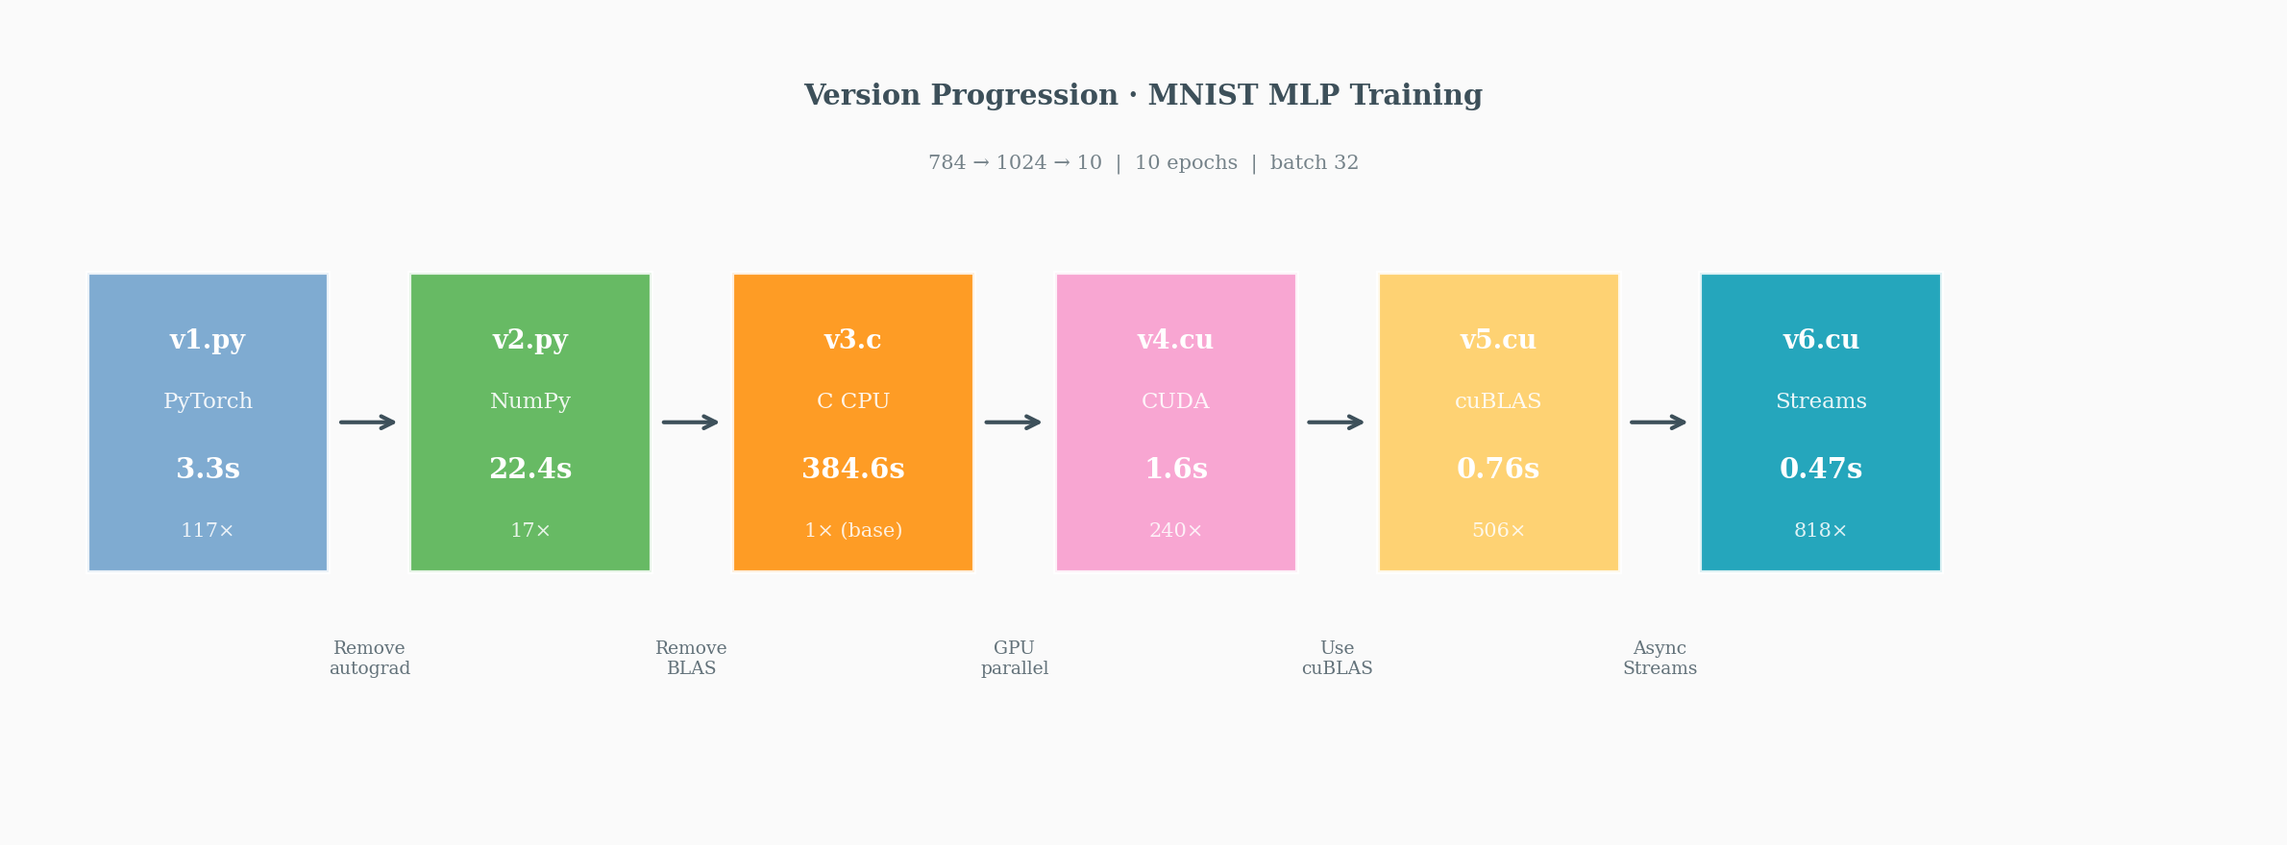
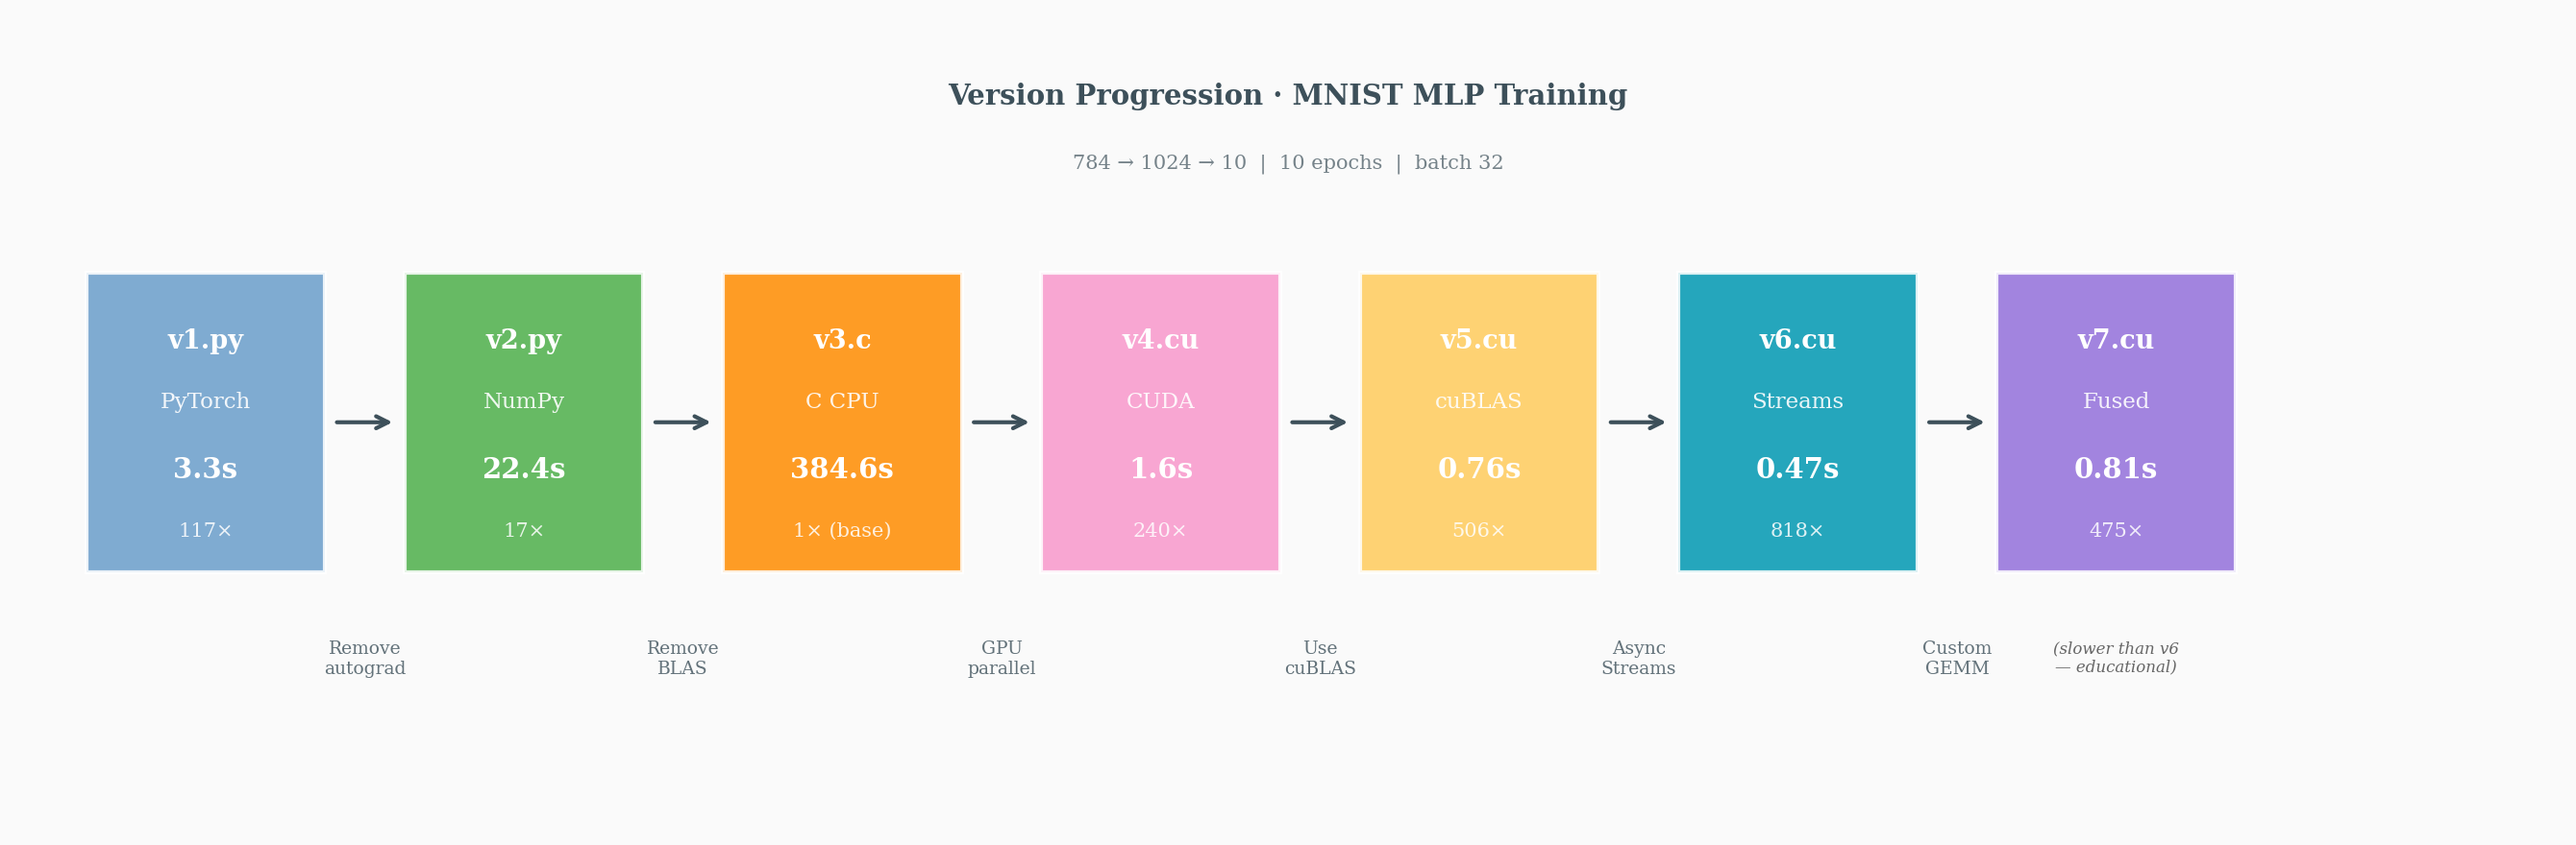
docs: update performance of v7

diff --git a/MNIST-in-CUDA/plot_timing.py b/MNIST-in-CUDA/plot_timing.py
@@ -36,19 +36,19 @@ plt.rcParams.update({
     'axes.spines.right': False,
 })
 
-# Data (v5/v6 have different timing: async operations)
-versions = ['v1 PyTorch', 'v2 NumPy', 'v3 C', 'v4 CUDA', 'v5 cuBLAS', 'v6 Streams']
-totals = [3.3, 22.4, 384.6, 1.6, 0.76, 0.47]
+# Data (v5/v6/v7 have different timing: async operations)
+versions = ['v1 PyTorch', 'v2 NumPy', 'v3 C', 'v4 CUDA', 'v5 cuBLAS', 'v6 Streams', 'v7 Fused']
+totals = [3.3, 22.4, 384.6, 1.6, 0.76, 0.47, 0.81]
 
 # Calculate "Other" to make each version sum to 100%
 # Other includes: Python interpreter overhead, CUDA init, epoch loops, print, etc.
 raw_data = {
-    'Data Loading': [0.065, 0.016, 0.000, 0.135, 0.129, 0.013],
-    'Forward': [0.666, 5.655, 272.2, 0.731, 0.00, 0.00],
-    'Loss': [0.327, 0.597, 0.002, 0.002, 0.00, 0.00],
-    'Backward': [1.449, 10.219, 106.4, 0.436, 0.00, 0.00],
-    'Updates': [0.592, 5.919, 3.38, 0.168, 0.00, 0.00],
-    'GPU Compute': [0.00, 0.00, 0.00, 0.00, 0.631, 0.450],  # v5: GPU, v6: issue+sync
+    'Data Loading': [0.065, 0.016, 0.000, 0.135, 0.129, 0.013, 0.013],
+    'Forward': [0.666, 5.655, 272.2, 0.731, 0.00, 0.00, 0.00],
+    'Loss': [0.327, 0.597, 0.002, 0.002, 0.00, 0.00, 0.00],
+    'Backward': [1.449, 10.219, 106.4, 0.436, 0.00, 0.00, 0.00],
+    'Updates': [0.592, 5.919, 3.38, 0.168, 0.00, 0.00, 0.00],
+    'GPU Compute': [0.00, 0.00, 0.00, 0.00, 0.631, 0.450, 0.793],  # v5-v7: issue+sync
 }
 
 # Calculate Other = total - sum(all categories)
@@ -61,7 +61,7 @@ data = raw_data.copy()
 data['Other'] = other  # Python/CUDA overhead, epoch loops, print, etc.
 
 # ============ Figure 1: Percentage Breakdown (Horizontal) ============
-fig, ax = plt.subplots(figsize=(12, 6))
+fig, ax = plt.subplots(figsize=(12, 7))  # Taller for 7 versions
 
 # Convert to percentages
 percentages = {k: [v / t * 100 for v, t in zip(vals, totals)] for k, vals in data.items()}
@@ -102,12 +102,12 @@ plt.savefig('assets/timing_analysis.png', dpi=150, bbox_inches='tight', facecolo
 print("Saved: timing_analysis.png")
 
 # ============ Figure 2: Version Progression Flowchart ============
-fig2, ax2 = plt.subplots(figsize=(16, 6))
-ax2.set_xlim(0, 14)
+fig2, ax2 = plt.subplots(figsize=(18, 6))
+ax2.set_xlim(0, 16)
 ax2.set_ylim(0, 6)
 ax2.axis('off')
 
-# Version data (updated with latest benchmark results)
+# Version data (updated with latest benchmark results, including v7)
 flow_data = [
     {'name': 'v1.py', 'tech': 'PyTorch', 'time': '3.3s', 'speedup': '117×', 'color': COLORS['blue']},
     {'name': 'v2.py', 'tech': 'NumPy', 'time': '22.4s', 'speedup': '17×', 'color': COLORS['green']},
@@ -115,10 +115,11 @@ flow_data = [
     {'name': 'v4.cu', 'tech': 'CUDA', 'time': '1.6s', 'speedup': '240×', 'color': COLORS['pink']},
     {'name': 'v5.cu', 'tech': 'cuBLAS', 'time': '0.76s', 'speedup': '506×', 'color': COLORS['yellow']},
     {'name': 'v6.cu', 'tech': 'Streams', 'time': '0.47s', 'speedup': '818×', 'color': COLORS['cyan']},
+    {'name': 'v7.cu', 'tech': 'Fused', 'time': '0.81s', 'speedup': '475×', 'color': '#9370DB'},  # Purple for v7
 ]
 
-# Box positions
-x_positions = [1.2, 3.2, 5.2, 7.2, 9.2, 11.2]
+# Box positions (7 boxes now)
+x_positions = [1.2, 3.2, 5.2, 7.2, 9.2, 11.2, 13.2]
 y_center = 3.0
 box_w, box_h = 1.5, 2.2
 
@@ -158,6 +159,7 @@ transitions = [
     ('GPU\nparallel', 3),
     ('Use\ncuBLAS', 4),
     ('Async\nStreams', 5),
+    ('Custom\nGEMM', 6),  # v6 -> v7
 ]
 for label, idx in transitions:
     x_mid = (x_positions[idx-1] + x_positions[idx]) / 2
@@ -165,12 +167,16 @@ for label, idx in transitions:
              fontsize=9, color=COLORS['text'], alpha=0.8)
 
 # Title
-ax2.text(7, 5.4, 'Version Progression · MNIST MLP Training', 
+ax2.text(8, 5.4, 'Version Progression · MNIST MLP Training', 
          ha='center', va='center', fontsize=14, fontweight='bold', color=COLORS['text'])
 
 # Subtitle
-ax2.text(7, 4.9, '784 → 1024 → 10  |  10 epochs  |  batch 32', 
+ax2.text(8, 4.9, '784 → 1024 → 10  |  10 epochs  |  batch 32', 
          ha='center', va='center', fontsize=10, color=COLORS['text'], alpha=0.7)
+
+# Note about v7 being slower (educational)
+ax2.text(13.2, y_center - 1.6, '(slower than v6\n— educational)', ha='center', va='top',
+         fontsize=8, color='#666666', style='italic')
 
 plt.tight_layout()
 plt.savefig('assets/speedup_comparison.png', dpi=150, bbox_inches='tight', facecolor=COLORS['bg'])

diff --git a/MNIST-in-CUDA/README.md b/MNIST-in-CUDA/README.md
@@ -185,7 +185,7 @@ nvcc -O2 -lcublas -o v7 v7.cu && ./v7
 | v4.cu   | Naive CUDA    | 1.6s  | ~240x        | 0.143      | 92.44%        |
 | v5.cu   | cuBLAS        | 0.76s | ~506x        | 0.142      | 93.68%        |
 | v6.cu   | Streams+Fusion| 0.47s | ~818x        | 0.143      | 93.61%        |
-| v7.cu   | Fused GEMM    | 0.6s  | ~641x        | 0.143      | —             |
+| v7.cu   | Fused GEMM    | 0.81s | ~475x        | 0.143      | 93.63%        |
 | v8.cu   | Pure FP16     | 0.3s  | ~1282x       | 0.145      | —             |
 
 ![Speedup Comparison](assets/speedup_comparison.png)
@@ -249,6 +249,8 @@ nvcc -O2 -lcublas -o v7 v7.cu && ./v7
 ### Implemented in v7
 - **Custom Fused GEMM:** Tiled shared memory GEMM with fused bias + ReLU epilogue
 - Educational demonstration of why optimized libraries (cuBLAS/CUTLASS) are valuable
+- **Result:** 0.81s vs v6's 0.47s — **1.7× slower** than cuBLAS despite kernel fusion
+- Why slower? cuBLAS uses: register tiling, software pipelining, warp-level primitives, tensor cores (on supported GPUs)
 
 ### Implemented in v8
 - **Pure FP16:** Native half-precision for weights, activations, gradients, and GEMM accumulation
